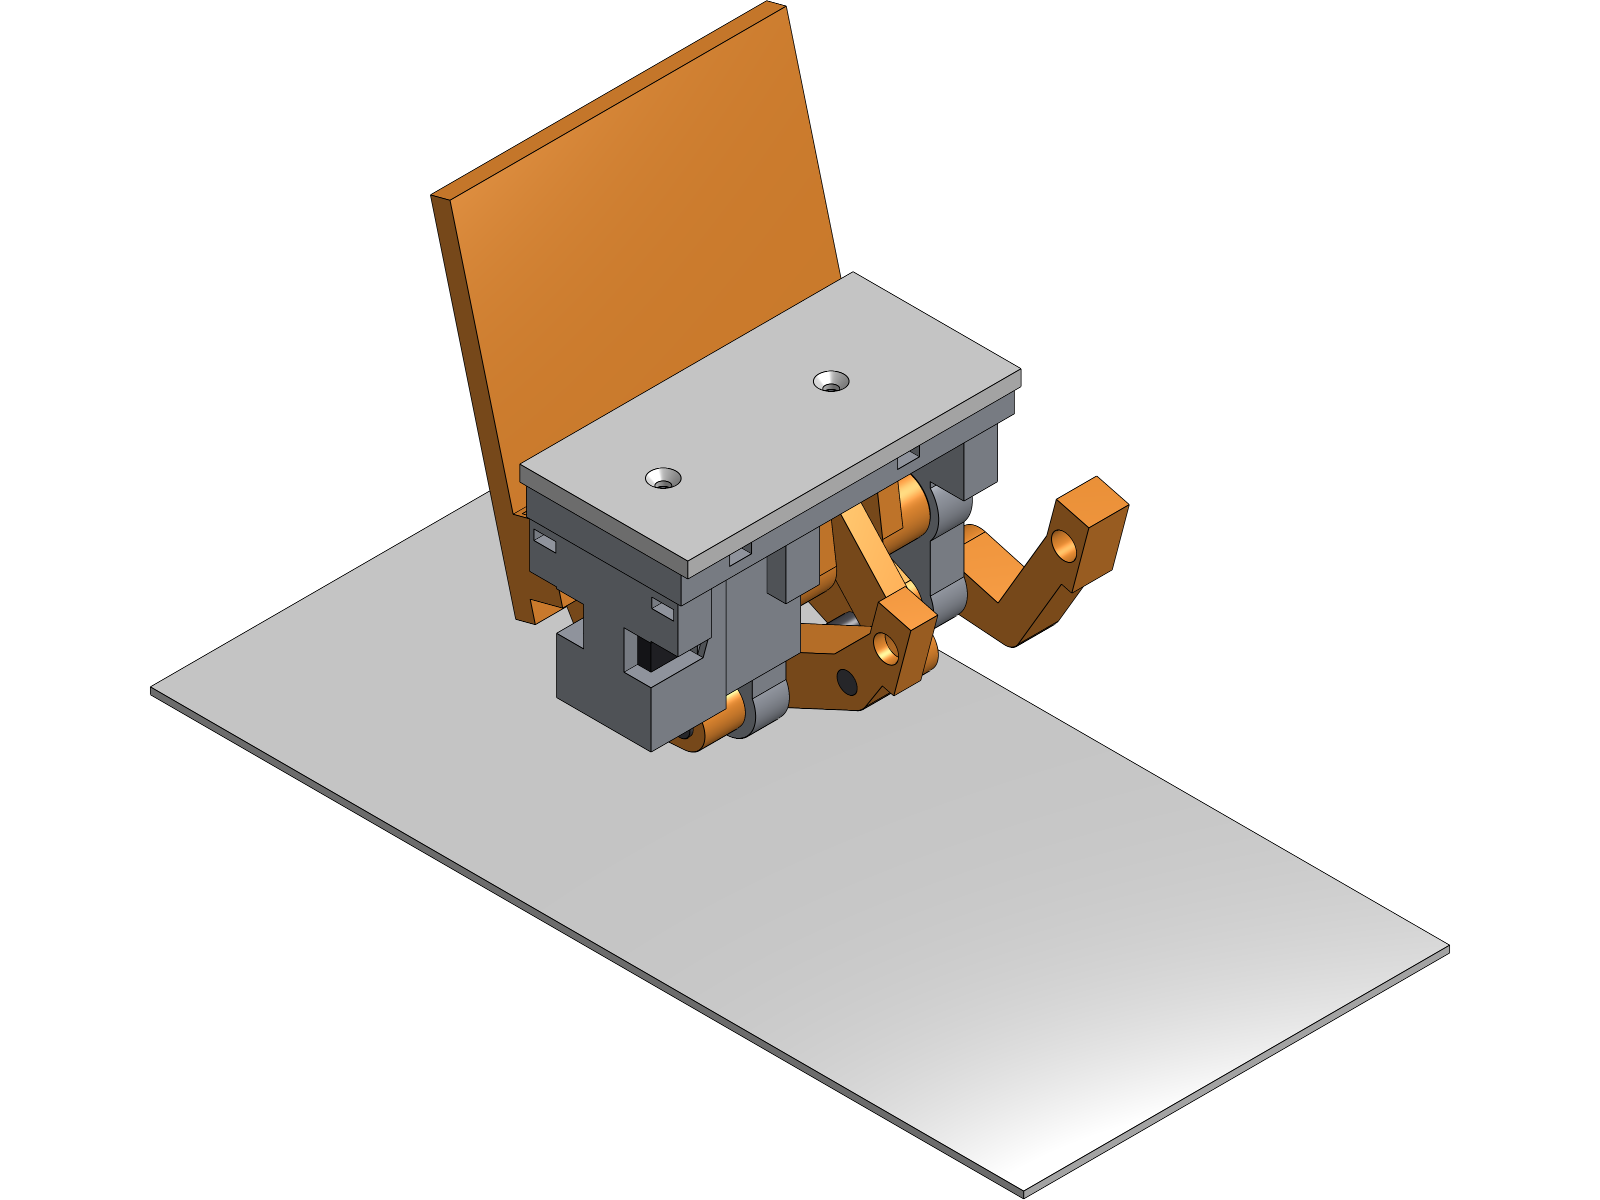
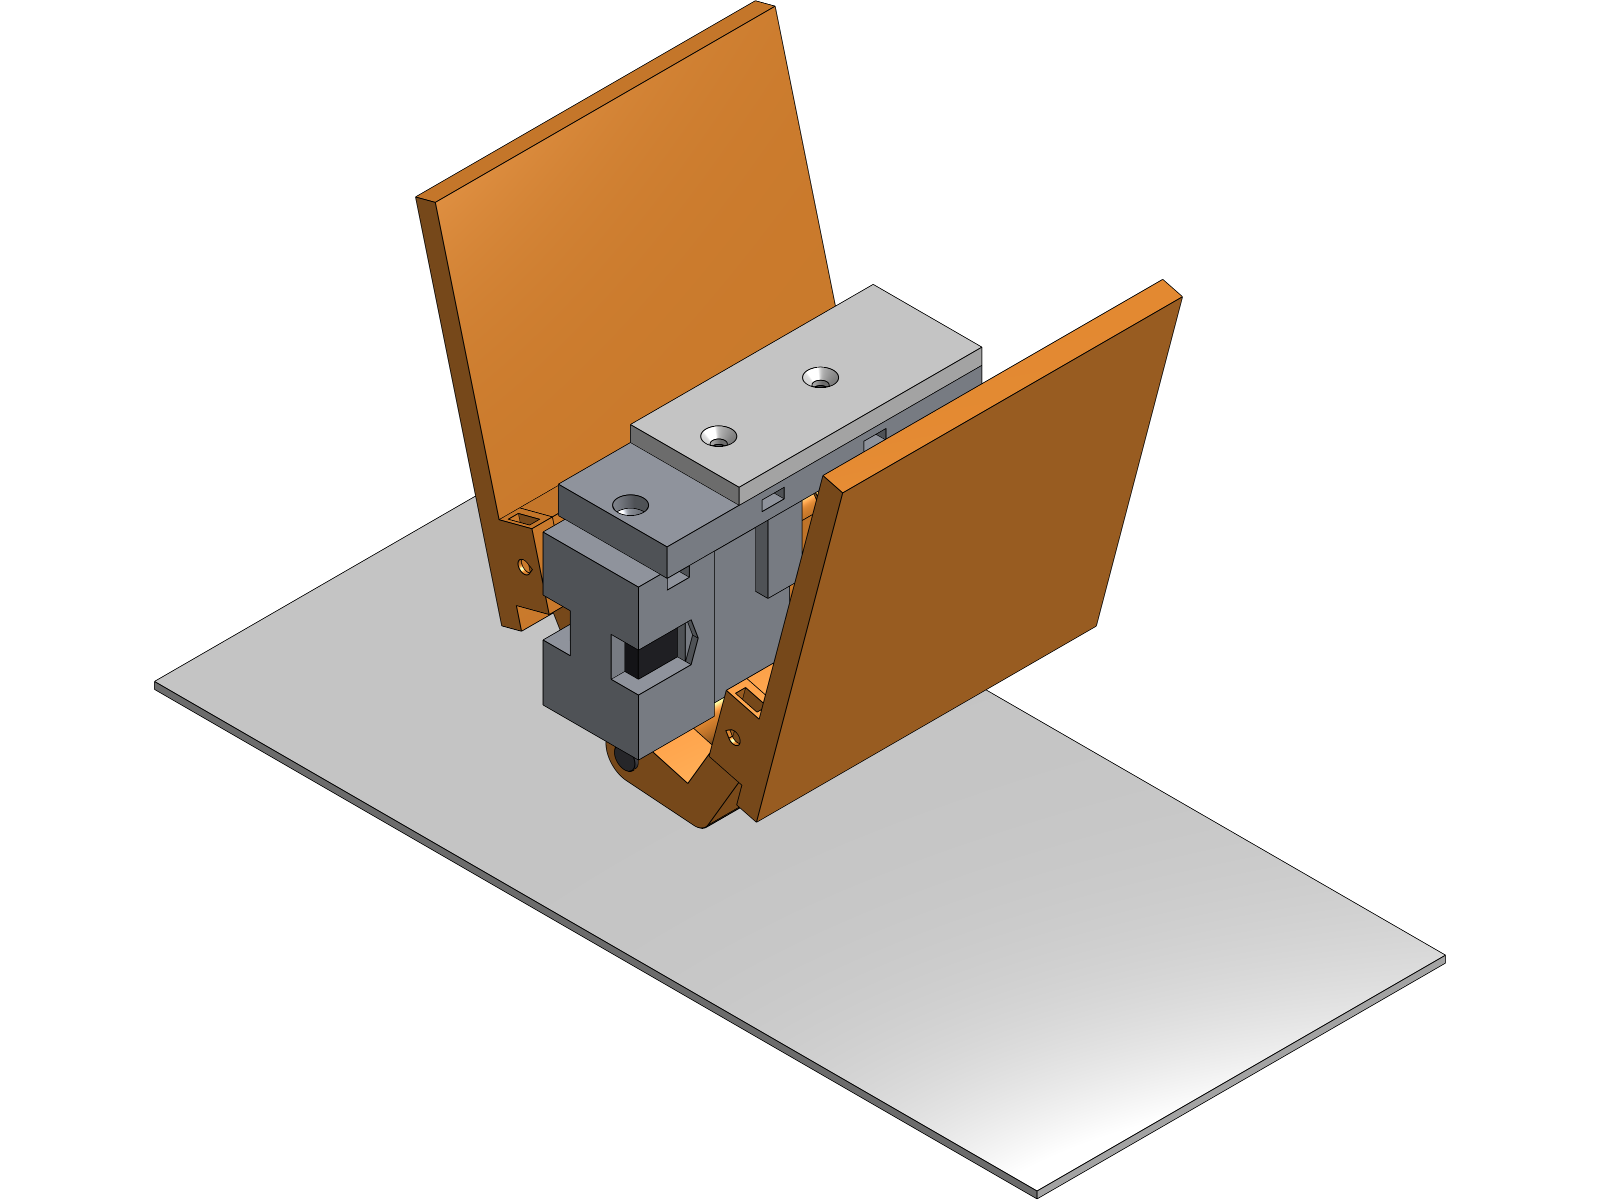
cad righting: knuckle R behind knuckle L, one central upper-case screw, +-16 bridge
In the whole bike the module did not fit between the wheels: the drive's
left pulley and the front tyre's steer ball left it no room at the
wheelbase the sim uses. Each change is a config switch, so the first design
is one edit away:

| change | config | effect in the bike (`cad_bike --fit 2`) |
|---|---|---|
| knuckle R behind knuckle L; the rod stops at the front bulkhead | wing.knuckle_r: rear | front axle >= 85 ahead of the rod, was 100 |
| one 6-32 down through the upper case's top, no ears; bridge, top band and chassis plate +-16 | cases.uc_joint: central, frame.bridge_half 16 | rod >= 157.5 behind the drive, was 190 |
| upper case top +2 | cases.top_extra 2.0 | the central nut slot keeps 1.0 over the servo (it cut 1 mm into it) |
| bridge ends past the central screw: -61.2, was -67.7 | (derived) | -- |
| chassis joints at y 0 / -30, ridges 6 | chassis.joints_y, ridge_half | the drive block's wedge no longer buries the rear one |

Between stations 165 and 185 the only clash was the ears (+-22) and bridge
(+-23) against drive pulley L (inner face at 17). Width, not length: the
upper case's length is the servo behind the rear bearing.

knuckle R and wing R are now MIRRORS of their L partners, not the same
parts; the check compares their volumes. Wing R keeps its length, shifted
back 12.6.

`--check`, one call: 24 bodies, 0 interference at rest and over 10 poses,
pins where the solver puts them. ASA 269.5 g solid (was 297.3). Tests 11
[…]

diff --git a/src/aow_sim/cad_righting.py b/src/aow_sim/cad_righting.py
@@ -280,7 +280,16 @@ def layout(data: dict) -> dict:
     Y["bh_out"] = Y["bh_in"] + st["bulkhead"]
     Y["kn_in"] = Y["bh_out"] + gb
     Y["kn_out"] = Y["kn_in"] + st["knuckle"]
+    # knuckle R BEHIND knuckle L (user, 2026-09-30): both wings' second
+    # supports at the rear, so the module ends at the front bulkhead and the
+    # rod stops there. knuckle R bears on knuckle L's back face (they turn
+    # opposite ways), over a ring on its own front face.
+    rear_kr = wg["knuckle_r"] == "rear"
+    Y["kr_in"] = Y["kn_out"] + gb
+    Y["kr_out"] = Y["kr_in"] + st["knuckle"]
     Y["rod"] = Y["kn_out"] + 1.0
+    Y["rod_back"] = (Y["kr_out"] if rear_kr else Y["kn_out"]) + 1.0
+    Y["rod_front"] = Y["bh_out"] if rear_kr else Y["rod"]
     Y["jn_end"] = Y["bh_out"] + ck["journal_proud"]
     Y["hub_front"] = Y["jn_end"] + cp["hub_gap"]           # the hub's socket face
     Y["horn_face"] = Y["hub_front"] + hb["thickness"]
@@ -323,7 +332,7 @@ def layout(data: dict) -> dict:
                       "up": None if up is None else [float(v) for v in up],
                       "add": list(add), "cut": list(cut),
                       "anchor": None if anchor is None else [float(v) for v in anchor],
-                      "note": note, "twin": twin, "custom": custom, "mock": mock, "kind": kind,
+                      "note": note, "twin": twin, "mirror": None, "custom": custom, "mock": mock, "kind": kind,
                       "color": list(color or (TURN_C if group != "fixed" else FIXED_C))})
 
     def xyz(p2, y):
@@ -397,9 +406,33 @@ def layout(data: dict) -> dict:
                 q["note"] = "Print the web face down. Crankpin hole: ream to press. No lugs: it only supports."
             parts.append(q)
 
+    if rear_kr:
+        kr = (-Y["kr_out"], -Y["kr_in"])
+        span = wg["panel_back"] + Y["kn_out"] + wg["tab"]      # wing L's length, kept
+        p0 = -(Y["kr_out"] + wg["tab"])
+        for q in parts:
+            if q["slug"] == "knuckleR":
+                q.update(up=[0.0, 1.0, 0.0],
+                         add=[slot(O, knee, hub_r, ehw, *kr), slot(knee, ear_end, ehw, ehw, *kr),
+                              prism(boss, *kr), cyl(O, kr[1], kr[1] + bz, ring_r)],
+                         cut=[cyl(O, kr[0] - 1, kr[1] + 1, rr)],
+                         anchor=xyz(knee / 2, (kr[0] + kr[1]) / 2),
+                         note="The right wing's second support, BEHIND knuckle L (it bears on knuckle "
+                              "L's back face over its ring). The mirror of knuckle L, not the same "
+                              "part. Rod: ream to run. Print the ringed face up.")
+            elif q["slug"] == "wingR":
+                q["add"] = [prism(panel_q, p0, p0 + span),
+                            prism(boss, -Y["web_out"], -Y["tab_out"]),
+                            prism(boss, p0, -Y["kr_out"])]
+                q["anchor"] = xyz(on_panel(50.0, 0.0), p0 + span / 2)
+            elif q["slug"] in ("knuckleL", "wingL"):
+                q["mirror"], q["twin"] = q["twin"], None    # same volume, not the same solid
+
     # ---- the frame
-    Zb = C[1] + xc["caseHeight"] - xc["shaftFromEnd"] + t["caseSideClearance"] + t["caseTopWall"] \
-        + t["caseNestClearance"] + t["caseBottomWall"]            # the upper case's top
+    central = cs["uc_joint"] == "central"
+    Zb0 = C[1] + xc["caseHeight"] - xc["shaftFromEnd"] + t["caseSideClearance"] + t["caseTopWall"] \
+        + t["caseNestClearance"] + t["caseBottomWall"]            # the case shells' top
+    Zb = Zb0 + (cs["top_extra"] if central else 0.0)              # the bridge's underside
     need(Zb >= C[1] + lk.crank + hub_r + 1.0, "the bridge would foul the crank")
 
     def bulkhead(y0, y1, extra=()):
@@ -460,12 +493,24 @@ def layout(data: dict) -> dict:
     # case still prints cap-down (a pad behind the cap made the cap overhang)
     ear0, ear1 = botOuter - 1.0, botOuter + cs["ear_width"]
     ear_z1 = upTopZ + cs["ear_depth"]
-    need(cs["ear_y0"] > winFar, "the upper case's ears reach down to the cable window")
-    need(ear_z1 < wallTop, "the upper case's ears run forward onto the lower case")
-    uc_add = [lbox([-botOuter, -upN, upTopZ], [botOuter, yWrap + 1.0, upBot]),
-              lbox([ear0, cs["ear_y0"], upTopZ], [ear1, Zb - C[1], ear_z1]),
-              lbox([-ear1, cs["ear_y0"], upTopZ], [-ear0, Zb - C[1], ear_z1])]
     ear_x = (ear0 + ear1) / 2
+    uc_add = [lbox([-botOuter, -upN, upTopZ], [botOuter, yWrap + 1.0, upBot])]
+    if central:
+        # the top grows by top_extra over the case's whole top, flush with
+        # the cap (it still prints cap-down); one screw on the centreline
+        # behind the lower case, whose top it must not sit over
+        lc_back = min(q["lo"][1] for q in [lbox([-topOuter, -wallN, wallTop], [topOuter, wallF, -Y["bh_out"] - yH])])
+        uc_add.append(box([-botOuter, yH + upTopZ, Zb0 - 0.5], [botOuter, lc_back + 6.8, Zb]))
+        # head jp above the bridge's underside, nut 2 mm under it, 3 thick
+        nut_wall = Zb - 2.0 - sc["nutSlotThickness"] - (C[1] + xc["caseHeight"] - xc["shaftFromEnd"]) \
+            - t["caseSideClearance"]
+        need(nut_wall >= wall - 1e-6, f"the upper case's nut slot leaves {nut_wall:.2f} mm over the servo")
+        y_uc = lc_back - 0.5 - sc["nutSlotWidth"] / 2
+    else:
+        need(cs["ear_y0"] > winFar, "the upper case's ears reach down to the cable window")
+        need(ear_z1 < wallTop, "the upper case's ears run forward onto the lower case")
+        uc_add += [lbox([ear0, cs["ear_y0"], upTopZ], [ear1, Zb - C[1], ear_z1]),
+                   lbox([-ear1, cs["ear_y0"], upTopZ], [-ear0, Zb - C[1], ear_z1])]
     uc_cut = [lbox([-nestBore, -nestN, wallTop], [nestBore, yWrap + 1.1, upBot + 1.0]),
               lbox([-inner, -near_l, zBack], [inner, yWrap + 1.1, wallTop + 1.0]),
               prism_x([[yH + zBack, C[1] + winFar], [yH + wallTop, C[1] + winFar],
@@ -473,9 +518,13 @@ def layout(data: dict) -> dict:
                        [yH + zBack, C[1] + winNear]], -botOuter - 1.0, botOuter + 1.0),
               lbox([slotIn, winNear, upTopZ - 1.0], [botOuter + 1.0, winFar, zBack + 0.1]),
               lbox([-botOuter - 1.0, winNear, upTopZ - 1.0], [-slotIn, winFar, zBack + 0.1])]
-    uc_anchor = W(-(ear_x + 3.0), cs["ear_y0"] + 3.0, (upTopZ + ear_z1) / 2)
-    part("uppercase", "upper case", "fixed", [0, 1, 0], [], anchor=uc_anchor, custom=True,
-         note="The XC330's back half, two ears up to the bridge. Connectors plug in through the cap.")
+    if central:
+        uc_anchor = [-(botOuter - 1.0), yH + upTopZ + 1.0, (Zb0 + Zb) / 2]
+        uc_note = "The XC330's back half, one 6-32 up into the bridge. Connectors plug in through the cap."
+    else:
+        uc_anchor = W(-(ear_x + 3.0), cs["ear_y0"] + 3.0, (upTopZ + ear_z1) / 2)
+        uc_note = "The XC330's back half, two ears up to the bridge. Connectors plug in through the cap."
+    part("uppercase", "upper case", "fixed", [0, 1, 0], [], anchor=uc_anchor, custom=True, note=uc_note)
     uc_shell_pt = W(-(botOuter - 0.5), (wallF + yWrap) / 2, upTopZ + 0.5)
 
     # ---- the horn hub (steering's) and the XC330's near hole row
@@ -505,21 +554,27 @@ def layout(data: dict) -> dict:
          anchor=[pin[0], wsh / 2 + ws["clearance"] + 1.0 if wsh > 0 else 0.0, pin[1]],
          kind="steel", color=STEEL_C,
          note="Rod stock: pressed in both webs, the couplers run on it.")
-    part("rod", "wing rod", "fixed", None, [cyl(O, -Y["rod"], Y["rod"], rr)],
+    part("rod", "wing rod", "fixed", None, [cyl(O, -Y["rod_back"], Y["rod_front"], rr)],
          anchor=[0.0, 0.0, 0.0], kind="steel", color=STEEL_C,
          note="Rod stock: pressed in both bearings, the hubs run on it.")
 
     # ---- bridge and the chassis placeholder
-    y_back = yH + upTopZ
     bt = fr["bridge"]
-    need(fr["bridge_half"] >= ear1 + 0.5, "the bridge is narrower than the upper case's ears")
+    if central:
+        # the bridge ends just past the screw's head and the groove round it
+        y_back = y_uc - max(sc["headDia"] / 2, jn["ridge_flat"] / 2 + jn["ridge_height"]) - 1.5
+    else:
+        y_back = yH + upTopZ
+        need(fr["bridge_half"] >= ear1 + 0.5, "the bridge is narrower than the upper case's ears")
     part("bridge", "bridge", "fixed", [0, 0, 1],
          [box([-fr["bridge_half"], y_back, Zb], [fr["bridge_half"], Y["bh_out"], Zb + bt])],
          anchor=[fr["bridge_half"] - 3.0, 12.0, Zb + 2.0],
          note="Ties the front bulkhead, lower and upper cases. Top face: the chassis joints.")
     ph = ch["plate_half"]
+    # ends 3 mm past the rear chassis joint's groove (ridge_half + 1 along Y)
+    y_plate = max(y_back, min(ch["joints_y"]) - ch["ridge_half"] - 1.0 - 3.0)
     part("chassis", "chassis plate (placeholder)", "fixed", [0, 0, 1],
-         [box([-ph, y_back, Zb + bt], [ph, Y["bh_out"], Zb + bt + jp])],
+         [box([-ph, y_plate, Zb + bt], [ph, Y["bh_out"], Zb + bt + jp])],
          anchor=[ph - 2.0, 12.0, Zb + bt + 1.0], mock=True, color=MOCK_C,
          note="PLACEHOLDER for the chassis: where the bridge's two 6-32 and ridges land.")
     fz = -(data["wheel_r"] + pz)
@@ -551,9 +606,14 @@ def layout(data: dict) -> dict:
           slot_len=(bh[1] - bh[0]) / 2 + 1.0)
     # the ears' nut slots run along Y: vertical as the case prints, and clear
     # of the case's own top wall (along X they would cut straight through it)
-    for sx, tag in ((1, "jU0"), (-1, "jU1")):
-        joint(tag, [sx * ear_x, yH + (upTopZ + ear_z1) / 2, Zb + jp], down, Y3, bt - jp, "bridge",
-              "uppercase", True, Y3, cs["ear_depth"] / 2 - 2.0, Z3, Y3)
+    if central:
+        # the slot runs along X out through both of the case's side walls
+        joint("jU", [0, y_uc, Zb + jp], down, X3, bt - jp, "bridge", "uppercase", True, X3,
+              botOuter - 3.0, Z3, Y3)
+    else:
+        for sx, tag in ((1, "jU0"), (-1, "jU1")):
+            joint(tag, [sx * ear_x, yH + (upTopZ + ear_z1) / 2, Zb + jp], down, Y3, bt - jp, "bridge",
+                  "uppercase", True, Y3, cs["ear_depth"] / 2 - 2.0, Z3, Y3)
     for i, yj in enumerate(ch["joints_y"]):
         joint(f"jC{i}", [0, yj, Zb + bt + jp], down, X3, 0.0, "chassis", "bridge", True, Y3,
               ch["ridge_half"], Z3, Z3)
@@ -575,6 +635,13 @@ def layout(data: dict) -> dict:
         joint(tag[:-1] + "L", turned_vec(head), [0, -dirn, 0], turned_vec(wv), pocket,
               part_slug[:-1] + "L", "wingL", False, turned_vec(wv), 0.0,
               turned_vec(up), turned_vec(niv), ridge=False)
+    if rear_kr:
+        # knuckle R behind: head in it 4.6 from its back face, the screw
+        # running back into the wing's tab
+        joints[:] = [j for j in joints if j["tag"] != "jKR"]
+        head = [s3[0], -Y["kr_out"] + jp, s3[2]]
+        joint("jKR", head, [0, -1, 0], wv, abs(head[1] + Y["kr_in"]), "knuckleR", "wingR", False,
+              wv, 0.0, [0, 1, 0], niv, ridge=False)
 
     for p in parts:
         p["bbox"] = bbox(p["add"]) if p["add"] else None
@@ -1149,8 +1216,8 @@ def judge(console: str, L: dict, data: dict) -> bool:
             ok = False
             print(f"  part {r[1]} is {r[2]} bodies  FAIL")
     for p in L["parts"]:
-        if p["twin"]:
-            twin = next(q["name"] for q in L["parts"] if q["slug"] == p["twin"])
+        if p["twin"] or p.get("mirror"):
+            twin = next(q["name"] for q in L["parts"] if q["slug"] == (p["twin"] or p["mirror"]))
             a, b = vols.get(twin), vols.get(p["name"])
             same = None not in (a, b) and abs(a - b) <= 1e-6 * max(a, b)
             ok &= same
@@ -1224,8 +1291,11 @@ def report(L: dict, data: dict) -> str:
            f"  crank axis {L['C'][1]:.2f} above the rod; rod {-L['floor_z']:.1f} above the floor; "
            f"bridge underside {L['Zb']:.2f}, top {L['Zb'] + data['s']['frame']['bridge']:.2f} above the rod",
            "  along Y from the mid-plane (magnitudes):"]
-    for k in ("cpl_in", "cpl_out", "web_in", "web_out", "hz_out", "bh_in", "bh_out", "kn_in", "kn_out", "rod"):
+    for k in ("cpl_in", "cpl_out", "web_in", "web_out", "hz_out", "bh_in", "bh_out", "kn_in", "kn_out"):
         out.append(f"    {Y[k]:7.2f}  {k}")
+    if data["s"]["wing"]["knuckle_r"] == "rear":
+        out.append(f"    {Y['kr_in']:7.2f}..{Y['kr_out']:.2f}  knuckle R, BEHIND knuckle L")
+    out.append(f"    rod from {-Y['rod_back']:.2f} to {Y['rod_front']:.2f}")
     out.append(f"  behind the rear bearing: journal end {Y['jn_end']:.2f}, hub {Y['hub_front']:.2f}-"
                f"{Y['horn_face']:.2f}, horn face {Y['horn_face']:.2f}")
     lug0, lug1, tip = L["lug"]

diff --git a/tests/test_cad_righting.py b/tests/test_cad_righting.py
@@ -176,3 +176,24 @@ def test_the_rear_knuckle_passes_under_the_servo_cases(data, L):
         if len(band):
             worst = max(worst, band[:, 1].max())
     assert worst < case_bottom - 3.0
+
+
+def test_knuckle_r_sits_behind_knuckle_l(data, L):
+    """`wing.knuckle_r: rear` (user, 2026-09-30): knuckle R behind knuckle L,
+    a bossed gap between them, the rod stopping at the front bulkhead, and
+    wing R as long as wing L, shifted back so its tab meets the knuckle."""
+    assert data["s"]["wing"]["knuckle_r"] == "rear"
+    Y, st = L["Y"], data["s"]["stack"]
+    kl, kr = part(L, "knuckleL")["bbox"], part(L, "knuckleR")["bbox"]
+    # behind, its ring (in its box) a running clearance off knuckle L's back face
+    assert kr[1][1] == pytest.approx(kl[0][1] - st["clearance"])
+    rod = part(L, "rod")["bbox"]
+    assert rod[1][1] == pytest.approx(Y["bh_out"]) and rod[0][1] < kr[0][1]
+    wl, wr = part(L, "wingL")["bbox"], part(L, "wingR")["bbox"]
+    assert wr[1][1] - wr[0][1] == pytest.approx(wl[1][1] - wl[0][1])
+    assert wr[0][1] == pytest.approx(kr[0][1] - data["s"]["wing"]["tab"])
+    # the module now ends at the front bearing: the bulkhead, and the crank's
+    # journal standing its 0.5 proud of it
+    front = max(p["bbox"][1][1] for p in L["parts"]
+                if p["bbox"] and not p["mock"] and p["slug"] not in ("wingL", "wingR"))
+    assert front == pytest.approx(Y["jn_end"])

diff --git a/docs/plans/righting-design.md b/docs/plans/righting-design.md
@@ -168,8 +168,52 @@ Studio **aow-bike-righting** (`onshape.yaml` tabs `righting_features` /
 | downward faces left | the nut-slot roofs (blind-end 3 mm, through-slot up to 6.5, bridging layers where the helper adds them), groove roofs, the case-pin relief slivers the steering cases have too |
 | mass, solid | ASA 297 g (the placeholder panels are 130 of it), steel 35 g |
 
+## Tightened for the whole bike (2026-09-30, user)
+
+In `aow-bike-whole` the module clashed with the drive (`bike-assembly-design.md`).
+Changes, each a config switch so the first design stays one edit away:
+
+- **knuckle R behind knuckle L** (`wing.knuckle_r: rear`). Both wings'
+  second supports are at the rear, under the servo. knuckle R bears on knuckle
+  L's back face over its own ring. The rod stops at the front bulkhead, so
+  the module ends at the front bearing (the journal, 32.0). Wing R keeps its
+  length, shifted back 12.6 to meet its tab. knuckle R and wing R become
+  MIRRORS of their L partners, not the same parts (the check compares their
+  volumes).
+- **The upper case on one central 6-32** (`cases.uc_joint: central`), not
+  the two ears.
+  - Its top grows 2 mm (`cases.top_extra`): the nut slot otherwise cut
+    1 mm into the servo. Exactly 1.0 mm of wall is left.
+  - The screw sits behind the lower case (y -56.0): its slot cannot sit
+    over it.
+- **Bridge +-16, ending at -61.2** (was +-23, -67.7). The bulkheads' top
+  band and the chassis plate placeholder are also +-16. All of them sit
+  inside the drive pulleys' inner faces at |x| 17.
+- **Chassis joints at y 0 and -30, ridges 6** (were 0 and -50, 10). In the
+  bike the placeholder is the deck, and the drive block's wedge stands on it
+  over -55..-38.
+
+`--check`: 24 bodies, 0 interference at rest and over 10 poses, the
+mirrored pairs equal in volume. ASA 269.5 g solid (was 297.3). Tests 11.
+
 ## Outstanding
 
+- **Expected next: shrink the stack (user, 2026-09-30).** The axial stack and
+  the mechanism's height set the bike's wheelbase
+  (`bike-assembly-design.md`, Outstanding). Keep the bulkhead's 10 (the
+  journal's bearing length) and the couplers' 6 (user).
+  - **The web's 6 and the hub zone's 8 come from where the wing joint is**
+    (user's catch, 2026-09-30). The rocker-side tab in the web plane forces
+    web >= tab (the nut); the boss and countersunk head fill the hub zone.
+  - **Move the joint outboard:** to the boss's far side, past the hub zone
+    in Y, beside the bulkhead (+-18) and clear of it, since the wing is at
+    |x| >= 30. Then neither layer carries the joint. They only need the
+    rocker arm's strength and the crank's shoulder, and the rocker's 14 mm
+    sleeve is not needed (the knuckle shares the wing).
+  - **Lowering the mechanism** shortens the bike ~1:1 under the drive's
+    underside, but that is a linkage re-optimisation.
+
+  Kept as is for now (user).
 - **Held until the steer module prints,** as the drive is (user). It shares
   the ideas here: the printed bearings, the 6-32 joints, the bridging, the
   cases and the horn hub. Those judgements come from it first.
